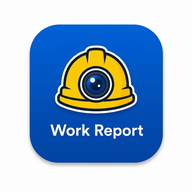
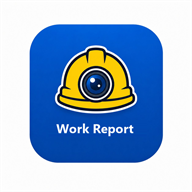
fix: 홈 화면 바로가기 아이콘 흐림 현상 개선 (512px 원본으로 교체)
기존 192px가 유일한 원본이라 확대 표시 시 흐리게 보이던 문제 해결.
work-photo-manage 프로젝트의 512px "Work Photo" 아이콘 원본에서 텍스트를
"Work Report"로 교체해 새 마스터로 사용하고, 192px/180px(apple-touch-icon)를
고품질로 재생성. manifest.json에 512px 항목 추가.
앱 내부 헤더 로고(단순 헬멧 모양)는 이번 변경 대상에서 제외, 홈 화면 아이콘만 교체.

diff --git a/app/admin.html b/app/admin.html
@@ -5,7 +5,7 @@
 <meta name="viewport" content="width=device-width, initial-scale=1.0"/>
 <title>work-report · 관리자</title>
 <link rel="icon" type="image/png" href="icon-192.png"/>
-<link rel="apple-touch-icon" href="icon-192.png"/>
+<link rel="apple-touch-icon" href="icon-180.png"/>
 <link rel="manifest" href="manifest.json"/>
 <meta name="theme-color" content="#1E3A5F"/>
 <style>

diff --git a/app/index.html b/app/index.html
@@ -5,7 +5,7 @@
 <meta name="viewport" content="width=device-width, initial-scale=1.0, maximum-scale=1.0"/>
 <title>work-report</title>
 <link rel="icon" type="image/png" href="icon-192.png"/>
-<link rel="apple-touch-icon" href="icon-192.png"/>
+<link rel="apple-touch-icon" href="icon-180.png"/>
 <link rel="manifest" href="manifest.json"/>
 <meta name="theme-color" content="#1E3A5F"/>
 <style>

diff --git a/app/login.html b/app/login.html
@@ -5,7 +5,7 @@
 <meta name="viewport" content="width=device-width, initial-scale=1.0, maximum-scale=1.0"/>
 <title>로그인 — work-report</title>
 <link rel="icon" type="image/png" href="icon-192.png"/>
-<link rel="apple-touch-icon" href="icon-192.png"/>
+<link rel="apple-touch-icon" href="icon-180.png"/>
 <link rel="manifest" href="manifest.json"/>
 <meta name="theme-color" content="#1E3A5F"/>
 <style>